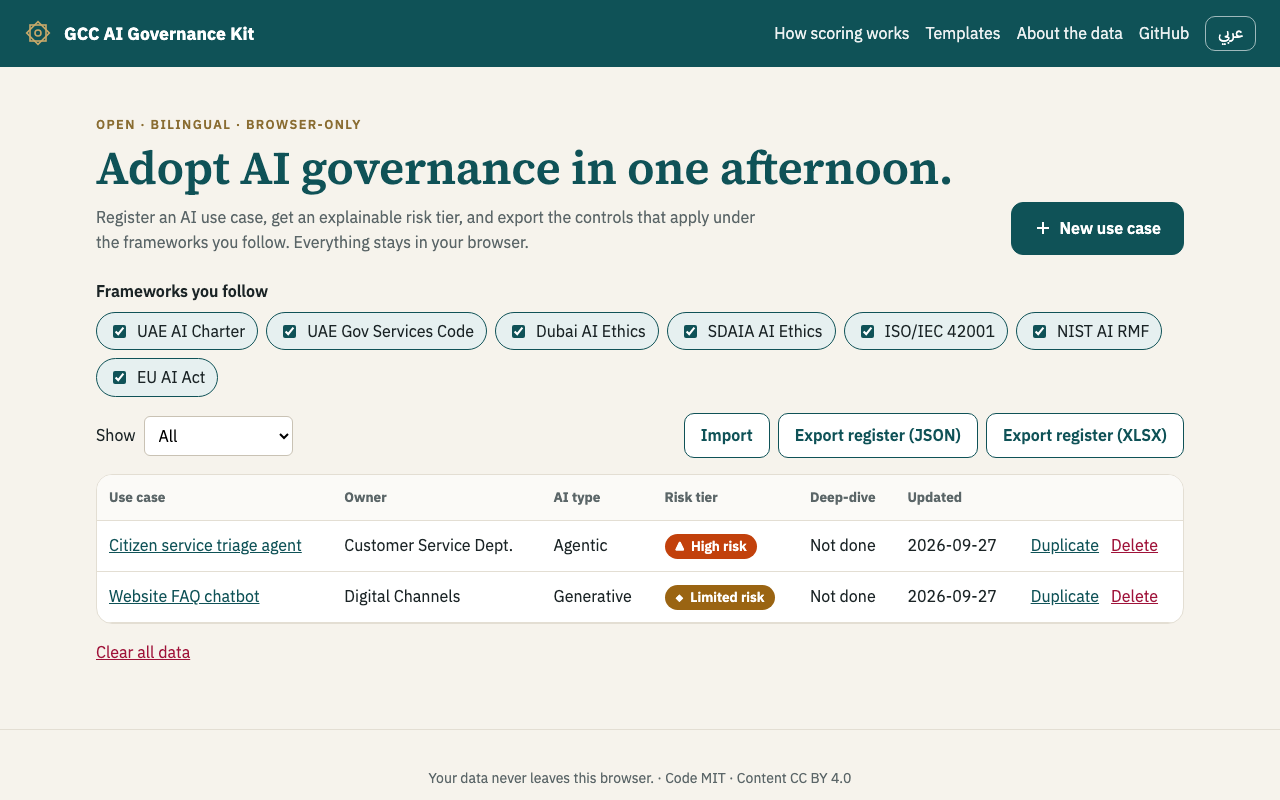
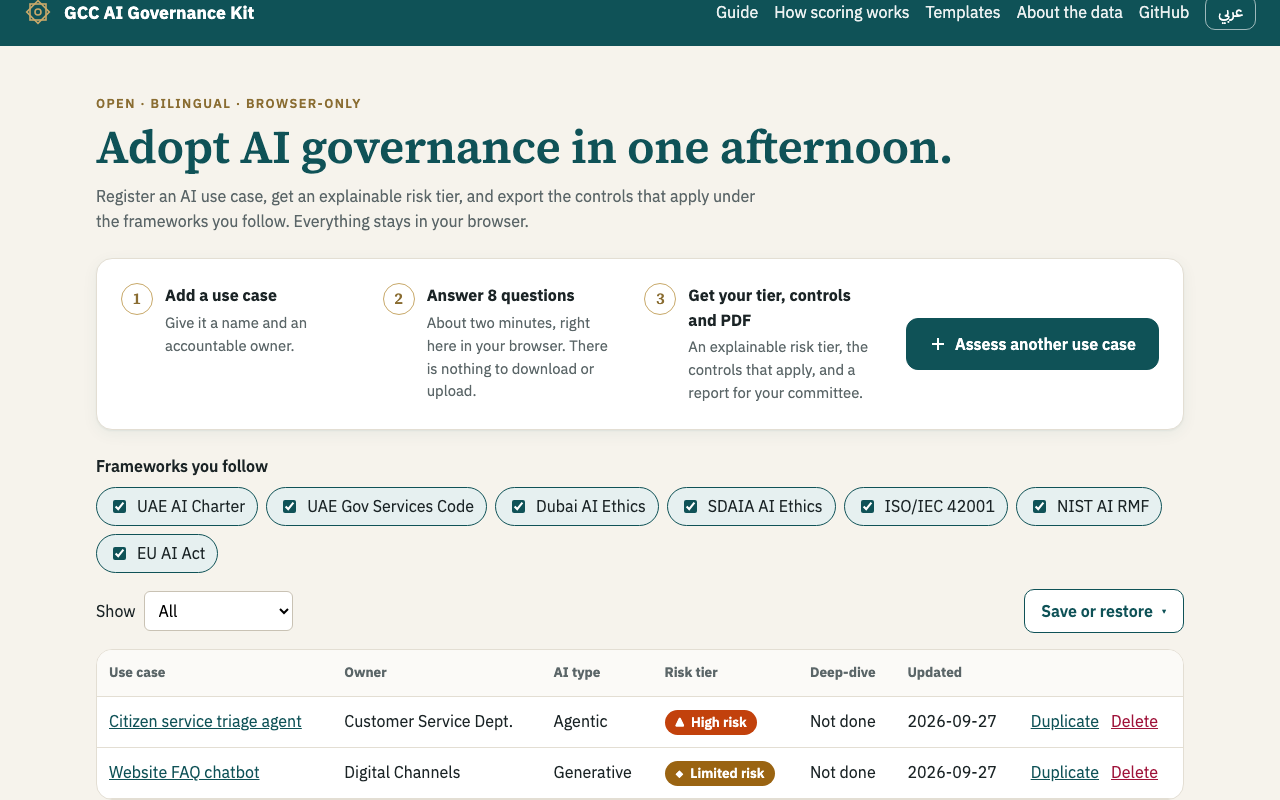
docs: v0.2.1 release notes, README guide links and refreshed media
Bumps the version to 0.2.1, adds the changelog entry, links the user
guide and its PDFs from the README (English and Arabic sections), and
re-records the demo GIF and screenshots with the new home page.

diff --git a/README.md b/README.md
@@ -4,7 +4,7 @@
 
 **Adopt AI governance in one afternoon, in Arabic and English.**
 
-[**Try it live →**](https://agibalya2b.github.io/gcc-ai-governance-kit/) · [Templates](https://agibalya2b.github.io/gcc-ai-governance-kit/#/templates) · [How scoring works](https://agibalya2b.github.io/gcc-ai-governance-kit/#/scoring) · [العربية](#بالعربية)
+[**Try it live →**](https://agibalya2b.github.io/gcc-ai-governance-kit/) · [User guide](https://agibalya2b.github.io/gcc-ai-governance-kit/#/guide) · [Templates](https://agibalya2b.github.io/gcc-ai-governance-kit/#/templates) · [How scoring works](https://agibalya2b.github.io/gcc-ai-governance-kit/#/scoring) · [العربية](#بالعربية)
 
 ![CI](https://github.com/agibalyA2B/gcc-ai-governance-kit/actions/workflows/deploy.yml/badge.svg)
 ![Controls verified](https://img.shields.io/badge/controls%20verified-48%2F56-2e7d5b)
@@ -37,14 +37,16 @@ This kit is that practical layer. It is open, free and bilingual, and it runs en
 | **Recommended autonomy** | Three prioritisation questions (usage, complexity, readiness), from the UAE AI-assistant priority matrix, recommend how much autonomy the AI should have, and warn when a design goes beyond it. |
 | **Honest verification** | Each control shows its sources and whether its references were checked against them: **48 of 56 verified**. See the [content audit](docs/content-audit.md). |
 | **Committee-ready outputs** | A one-to-two-page *AI Use-Case Risk Summary* (print to PDF) with a sign-off block, plus control lists as CSV/XLSX with right-to-left Arabic sheets. |
-| **Templates** | Register, impact assessment and control checklist in Arabic and English (XLSX, CSV, Markdown) for teams that prefer spreadsheets. |
+| **User guide** | An in-app [guide](https://agibalya2b.github.io/gcc-ai-governance-kit/#/guide) in Arabic and English, with screenshots: the three steps, what each tier means, reading controls and badges, exports and backups. Also as PDF: [English](docs/USER-GUIDE.pdf) · [العربية](docs/USER-GUIDE-ar.pdf). |
+| **Templates** | Register, impact assessment and control checklist in Arabic and English (XLSX, CSV, Markdown) for teams that prefer spreadsheets or work offline. You don't need them to use the app. |
 
 ## Try it in 60 seconds
 
 1. Open the **[live site](https://agibalya2b.github.io/gcc-ai-governance-kit/)** and click **Load 2 sample use cases**.
 2. Open *Citizen service triage agent* to see why it is **High risk**.
 3. Click **See applicable controls**, then **Committee PDF**.
-4. Switch to **عربي**: the whole flow, the exports and the report work right-to-left.
+4. Switch to **عربي**: the whole flow, the exports and the report work right-to-left. The site opens in English; your
+   language choice is remembered.
 
 No sign-up, no backend, no API key. Nothing you type leaves the browser; an automated test checks this on every change.
 
@@ -128,6 +130,7 @@ and governance programmes in UAE federal government.
   وقانون الاتحاد الأوروبي، إضافةً إلى كود الإمارات للخدمات الحكومية وتصفير البيروقراطية والدليل الاتحادي للذكاء الاصطناعي المساعد. وتوصي الحقيبة بمستوى الاستقلالية المناسب للذكاء الاصطناعي وفق مصفوفة الأولويات الحكومية.
 
 تعمل بالكامل داخل المتصفح، ولا تغادر بياناتك جهازك.
-[جرّبها الآن](https://agibalya2b.github.io/gcc-ai-governance-kit/)
+تُفتح الواجهة بالإنجليزية؛ اضغط «عربي» في أعلى الصفحة وسيُحفظ اختيارك.
+[جرّبها الآن](https://agibalya2b.github.io/gcc-ai-governance-kit/) · [دليل الاستخدام (PDF)](docs/USER-GUIDE-ar.pdf)
 
 **الترخيص:** الشيفرة بترخيص MIT، والمحتوى والنماذج بترخيص CC BY 4.0. هذه الحقيبة إرشادية وليست استشارة قانونية.

diff --git a/CHANGELOG.md b/CHANGELOG.md
@@ -1,5 +1,17 @@
 # Changelog
 
+## 0.2.1 (2026-09-27)
+UX fixes from feedback on 0.2.0.
+- **English by default.** The site now always opens in English; the عربي toggle switches to Arabic and is remembered.
+  See ADR 005.
+- **The questionnaire is the obvious path.** Home shows three steps (add a use case, answer 8 questions, get your
+  tier, controls and PDF) with one *Start your first assessment* button. Backup and restore move into a *Save or
+  restore* menu, and import is now *Restore a saved register (.json)*. The Templates page is reframed as the offline
+  option and says that no upload is needed.
+- **User guide.** A new in-app Guide page in Arabic and English, with screenshots, that prints to A4. It is also
+  available as `docs/USER-GUIDE.pdf` and `docs/USER-GUIDE-ar.pdf`.
+- Fixed: on phones, the register table no longer makes the whole page scroll sideways.
+
 ## 0.2.0 (2026-09-27)
 - New framework: **UAE Code for Government Services and Zero Bureaucracy**, adopted by the UAE Cabinet in April 2026.
   It is cited together with the federal agentic-AI service design guide, the Agentic AI National Reference (July 2026)
